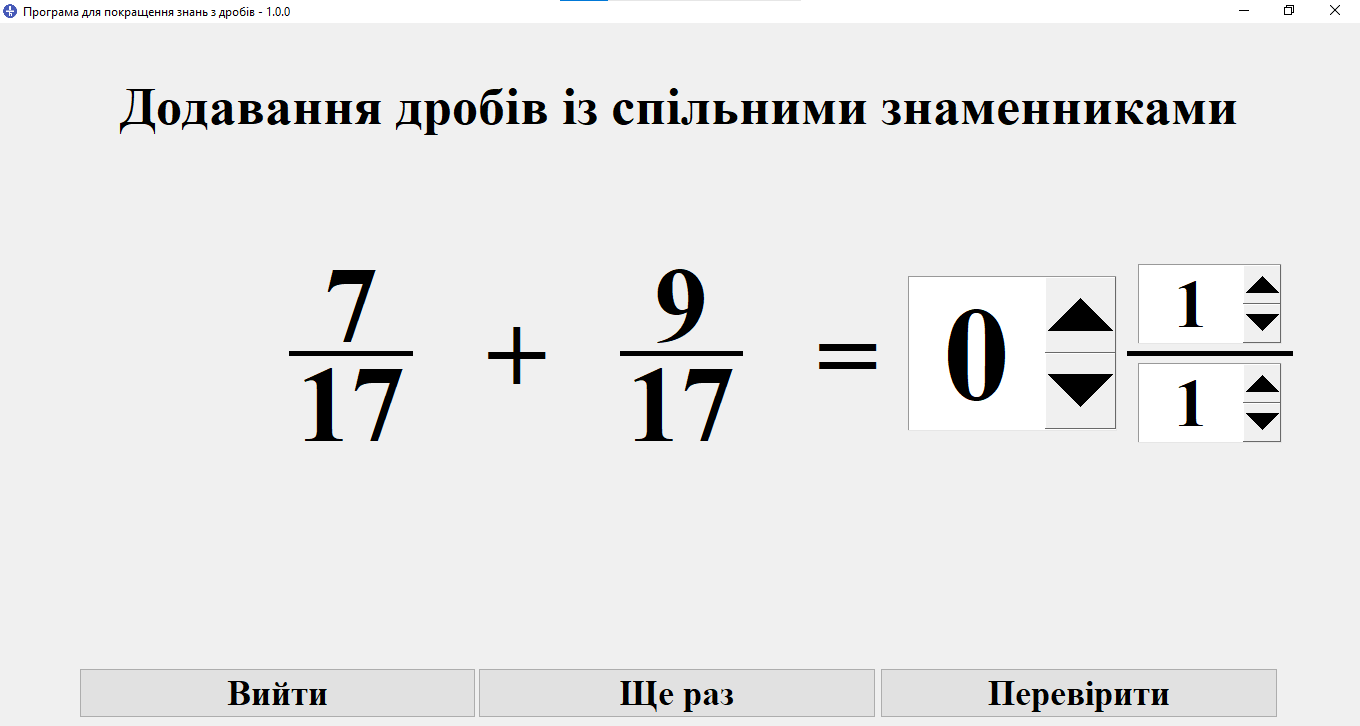
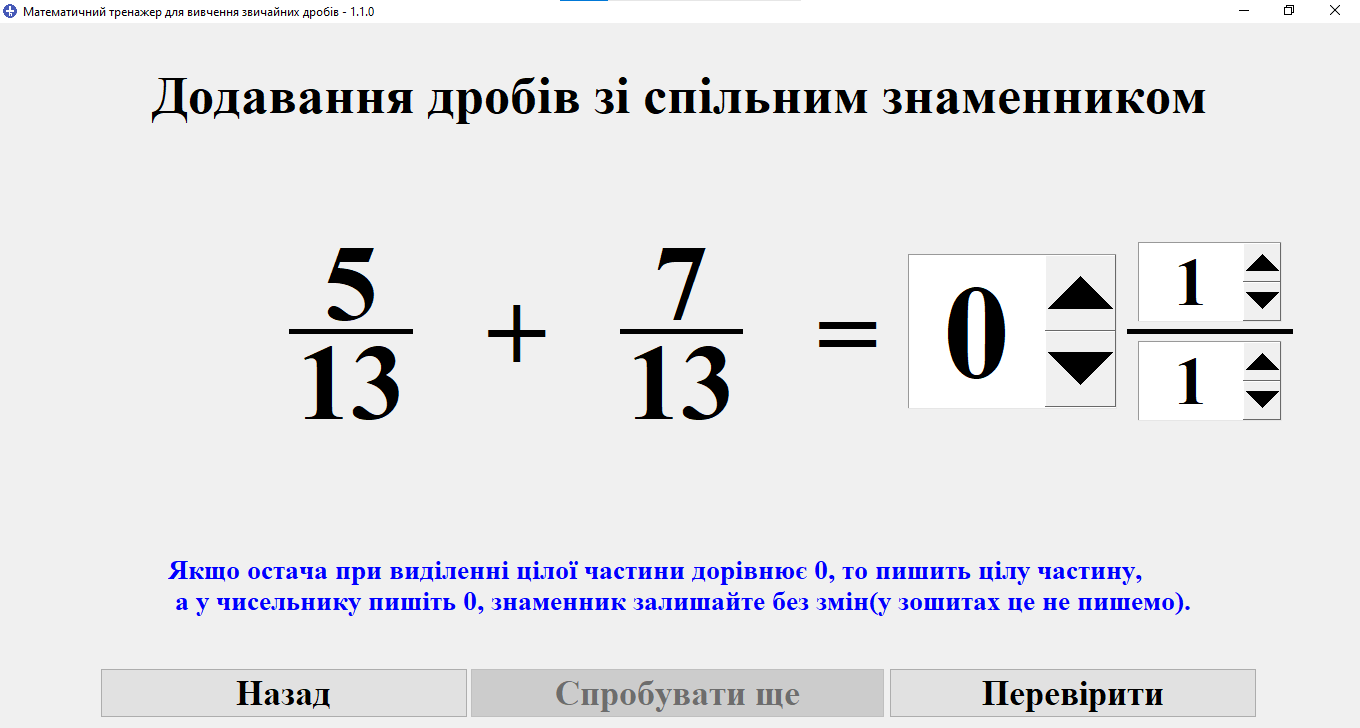
Patch 1.1.1

diff --git a/fractions_app/constants.py b/fractions_app/constants.py
@@ -1,8 +1,8 @@
-VERSION = "1.1.0"
+VERSION = "1.1.1"
 PROGRAM_TITLE = "Математичний тренажер для вивчення\n звичайних дробів"
 CONGRATULATION_TITLE = "Прикинь ти"
 AUTHOR = "Карандашов Андрій"
-WARNING = "Якщо остача при виділенні цілої частини дорівнює 0, то пишить цілу частину,\n а у чисельнику пишіть 0, знаменник залишайте без змін(у зошитах це не пишемо)."
+WARNING = "Якщо остача при виділенні цілої частини дорівнює 0, то введіть цілу частину,\n у чисельнику введіть 0, знаменник залишайте без змін \n(в зошитах ми в таких випадках дробової частини не пишемо)."
 
 BASE_WIDTH, BASE_HEIGHT = 500, 450
 

diff --git a/fractions_app/helper/generate_fractions.py b/fractions_app/helper/generate_fractions.py
@@ -1,3 +1,4 @@
+from __future__ import annotations
 from random import randrange
 
 from fractions_app.math import Fraction
@@ -17,9 +18,6 @@ def generate_proper_fractions_with_like_denominators() -> tuple[Fraction, Fracti
     first_fraction = Fraction(randrange(1, 10), randrange(1, 10))
     denominator = first_fraction.denominator
     second_fraction = Fraction(randrange(1, 10), denominator)
-
-    while (first_fraction.numerator + second_fraction.numerator) >= denominator:
-        denominator += 1
 
     first_fraction.denominator = denominator
     second_fraction.denominator = denominator

diff --git a/test/test_fraction_generator.py b/test/test_fraction_generator.py
@@ -14,9 +14,6 @@ class TestFraction(unittest.TestCase):
             self.assertEqual(fraction_1.integer, 0)
             self.assertEqual(fraction_2.integer, 0)
             self.assertEqual(fraction_1.denominator, fraction_2.denominator)
-            self.assertLessEqual(
-                fraction_1.numerator + fraction_2.numerator, fraction_1.denominator
-            )
 
     def test_fractions_with_unlike_denominators(self):
         for _ in range(100):

diff --git a/fractions_app/widgets/spinbox.py b/fractions_app/widgets/spinbox.py
@@ -40,8 +40,8 @@ class Spinbox(tk.Spinbox):
 
     def _spinbox_return_pressed(self, event):
         self.selection_clear()
-        if master := self.master.master:
-            master.focus()
+        if self.master.master:
+            self.master.master.focus()
 
     def _validate_spinbox_text(self, text: str) -> bool:
         if not text.isdigit() and text:

diff --git a/fractions_app/topics/fraction_subtracting.py b/fractions_app/topics/fraction_subtracting.py
@@ -1,3 +1,5 @@
+from __future__ import annotations
+
 from fractions_app.math import Fraction
 from fractions_app.helper import (
     Exercise,

diff --git a/fractions_app/helper/topic.py b/fractions_app/helper/topic.py
@@ -1,3 +1,4 @@
+from __future__ import annotations
 from dataclasses import dataclass
 
 from fractions_app.helper.subtopic import Subtopic

diff --git a/fractions_app/windows/exercise_window.py b/fractions_app/windows/exercise_window.py
@@ -1,3 +1,4 @@
+from __future__ import annotations
 from tkinter import ttk
 import tkinter.messagebox as messagebox
 

diff --git a/CHANGELOG.md b/CHANGELOG.md
@@ -1,17 +1,22 @@
 # Журнал змін  
 
+## [1.1.1] - 2024-11-08
+### Змінено
+* Покращено сумісність з Python тепер мінімальна версія 3.7.
 
-## [1.1.0] - 2024-11-07
+### Виправлено
+* Помилки у файлах README та CHANGELOG.
+
+## [1.1.0] - 2024-11-08
 ### Додано
 * Файл [`CHANGELOG_ENG.md`](./CHANGELOG_ENG.md).
-* При створенні екземпляр класу `Fraction` відбувається перевірка типів та значення знаменника, щоби він був більшим за нуль. Якщо неправильний тип аргументів, у знаменнику нуль або від'ємне число, то тоді генерується виняток `ValueError`
+* При створенні екземпляр класу `Fraction` відбувається перевірка типів та значення знаменника, щоби він був більшим за нуль. Якщо неправильний тип аргументів, у знаменнику нуль або від'ємне число, то тоді генерується виняток `ValueError`.
 * Кнопка "Спробувати ще" за замовчуванням неактивна, якщо користувач правильно порахував, тоді вона стає активною.
 
 ### Змінено
 * Стиль журналу змін.
 * Тести.
 * Текст деяких кнопок.
-* Якщо при виділенні цілої частинин, дріб виноситься повністю до прикладу <sup>4</sup>/<sub>4</sub>, тоді потрібно записати 1<sup>0</sup>/<sub>4</sub>.
 * Смайлик у вікні з привітаннями.
 * Назва програми з "Програма для покращення знань з дробів" на "Тренажер для вивчення звичайних дробів".
 

diff --git a/CHANGELOG_ENG.md b/CHANGELOG_ENG.md
@@ -1,19 +1,25 @@
 # Changelog  
 
+## [1.1.1] - 2024-11-08
+### Changed
+* Improved compatability with older versions of Python, now minimal required version is 3.7.
 
-## [1.1.0] - 2024-11-07
+### Fixed
+* Typos in README and CHANGELOG files.
+
+
+## [1.1.0] - 2024-11-08
 ### Added
 * File `CHANGELOG_ENG.md`.
-* При створенні екземпляр класу `Fraction` відбувається перевірка типів та значення знаменника, щоби він був більшим за нуль. Якщо неправильний тип аргументів, у знаменнику нуль або від'ємне число, то тоді генерується виняток `ValueError`
-* Кнопка "Спробувати ще" за замовчуванням неактивна, якщо користувач правильно порахував, тоді вона стає активною.
+* Type and value check `ValueError`
+* Button "Спробувати ще"(Try again) by default is inactive, if user enters right answer button becomes active.
 
 ### Changed
 * Style of changelog.
 * Tests.
 * Text for some buttons.
-* Якщо при виділенні цілої частинин, дріб виноситься повністю до прикладу <sup>4</sup>/<sub>4</sub>, тоді потрібно записати 1<sup>0</sup>/<sub>4</sub>.
 * Congratulation window image.
-* Program title from "Програма для покращення знань з дробів" to "Тренажер для вивчення звичайних дробів".
+* Program title from "Програма для покращення знань з дробів"(A program to improve knowledge of fractions) to "Тренажер для вивчення звичайних дробів"(An interactive tool for learning fractions).
 
 ### Fixed
 * Typos in README files.
